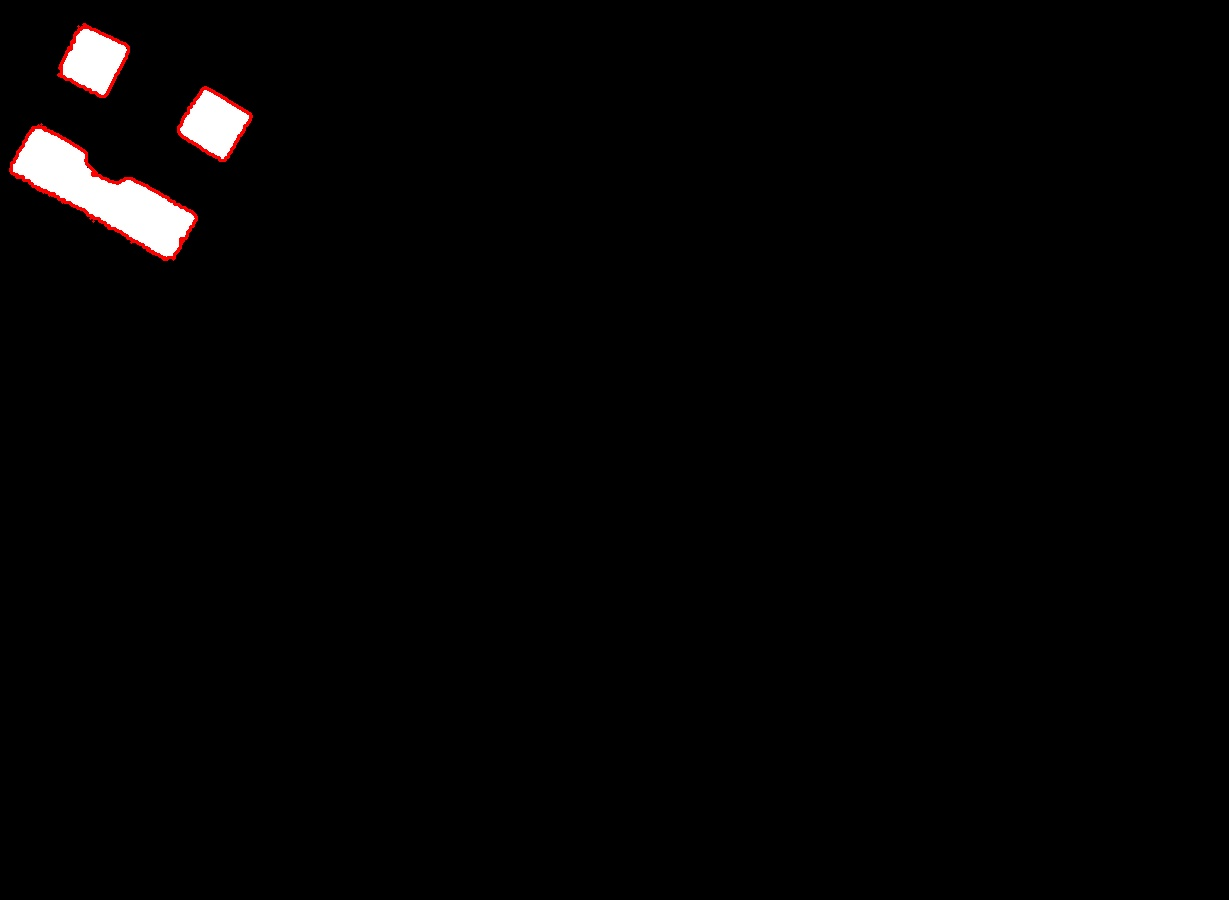
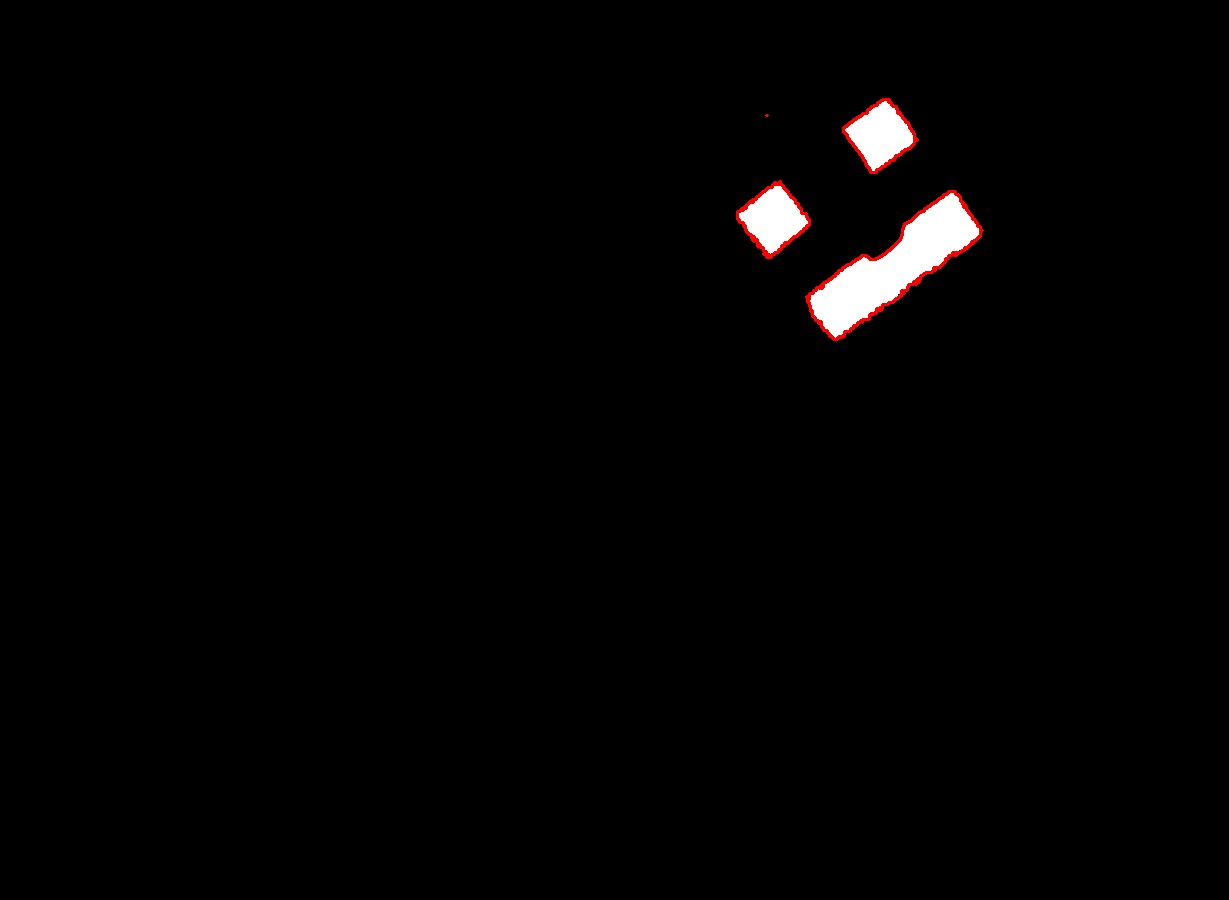
god nu her. klar til kamp

diff --git a/picture/image_detection.py b/picture/image_detection.py
@@ -315,50 +315,51 @@ def detect_ball_colors(image):
     #MAybe save the data, and when this function is almost done, fiind the median of the two values if any. Or just use the only one
     #regarding the arena
     for pic, contour in enumerate(contours): 
-            area = cv2.contourArea(contour) 
-            if area > 5000: 
-                x, y, w, h = cv2.boundingRect(contour) 
-                if area > 6000 and area < 8000:  # area of cross is aprox 7000
-                    rect = cv2.minAreaRect(contour)
-                    box = cv2.boxPoints(rect)
-                    box = np.int0(box)
-                    
-                    center = (int(rect[0][0]), int(rect[0][1]))
-                    size = (int(rect[1][0] // 2) + 10, int(rect[1][1] // 2) + 10)
-                    angle = rect[2] + 45
-                    
-                    # Create a rotation matrix
-                    M = cv2.getRotationMatrix2D(center, angle, 1.0)
-                    
-                    # Calculate the end points of the cross lines
-                    end1 = (int(center[0] + size[0] * np.cos(np.radians(angle))),
-                            int(center[1] + size[0] * np.sin(np.radians(angle))))
-                    end2 = (int(center[0] - size[0] * np.cos(np.radians(angle))),
-                            int(center[1] - size[0] * np.sin(np.radians(angle))))
-                    end3 = (int(center[0] + size[1] * np.cos(np.radians(angle + 90))),
-                            int(center[1] + size[1] * np.sin(np.radians(angle + 90))))
-                    end4 = (int(center[0] - size[1] * np.cos(np.radians(angle + 90))),
-                            int(center[1] - size[1] * np.sin(np.radians(angle + 90))))
-                    
-                    # Draw the cross
-                    cv2.line(image, end1, end2, (0, 0, 255), 2)
-                    cv2.line(image, end3, end4, (0, 0, 255), 2)
-                    
-                    cv2.putText(image, "Red Colour", (int(rect[0][0]), int(rect[0][1])), cv2.FONT_HERSHEY_SIMPLEX, 1.0, (0, 0, 255))
-                    
-                    no_go_zones = []
-                    no_go_zones.append([
-                        (end1, end2),
-                        (end3, end4)
-                    ])
-
-                    save_no_go_zones(no_go_zones)
+        area = cv2.contourArea(contour) 
+        if area > 5000: 
+            x, y, w, h = cv2.boundingRect(contour) 
+            if area > 6000 and area < 8000:  # area of cross is aprox 7000
+                rect = cv2.minAreaRect(contour)
+                box = cv2.boxPoints(rect)
+                box = np.int0(box)
+                
+                center = (int(rect[0][0]), int(rect[0][1]))
+                size = (int(rect[1][0] // 2) + 10, int(rect[1][1] // 2) + 10)
+                angle = rect[2] + 45
+                
+                # Create a rotation matrix
+                M = cv2.getRotationMatrix2D(center, angle, 1.0)
+                
+                # Calculate the end points of the cross lines
+                end1 = (int(center[0] + size[0] * np.cos(np.radians(angle))),
+                        int(center[1] + size[0] * np.sin(np.radians(angle))))
+                end2 = (int(center[0] - size[0] * np.cos(np.radians(angle))),
+                        int(center[1] - size[0] * np.sin(np.radians(angle))))
+                end3 = (int(center[0] + size[1] * np.cos(np.radians(angle + 90))),
+                        int(center[1] + size[1] * np.sin(np.radians(angle + 90))))
+                end4 = (int(center[0] - size[1] * np.cos(np.radians(angle + 90))),
+                        int(center[1] - size[1] * np.sin(np.radians(angle + 90))))
+                
+                # Draw the cross
+                cv2.line(image, end1, end2, (0, 0, 255), 2)
+                cv2.line(image, end3, end4, (0, 0, 255), 2)
+                
+                cv2.putText(image, "Red Colour", (int(rect[0][0]), int(rect[0][1])), cv2.FONT_HERSHEY_SIMPLEX, 1.0, (0, 0, 255))
+                
+                no_go_zones = [
+                    (end1, end2),
+                    (end3, end4),
+                    (center, angle)
+                ]
+                
+                save_no_go_zones(no_go_zones)
 
                     
                 
                 cv2.putText(image, "Red Colour utils", (x, y), 
                             cv2.FONT_HERSHEY_SIMPLEX, 1.0, 
                             (0, 0, 255))     
+    
     
     # Creating contour to track orange color 
     contours, hierarchy = cv2.findContours(orange_mask, 

diff --git a/run.py b/run.py
@@ -26,7 +26,7 @@ def init():
 
     # for arena transform calibration
     image = camera_handler._run_video()
-    #find_corners(image)
+    find_corners(image)
     return camera_handler
 
 camera_handler = init()
@@ -69,7 +69,6 @@ try:
             car = find_carv2(image)
             check = move_to_targetv2(SortByDistance())
             cv2.imshow("LiveV2",image)
-            # exit()
             
 finally:
     # Ensure the camera is released properly

diff --git a/picture/livefeed.py b/picture/livefeed.py
@@ -33,7 +33,7 @@ class CameraHandler:
                 break
 
             # Display the resulting frame
-            cv2.imshow('Live Feed', frame)
+            #cv2.imshow('Live Feed', frame)
 
             # Press 'q' on the keyboard to exit the video
             if cv2.waitKey(1) & 0xFF == ord('q'):
